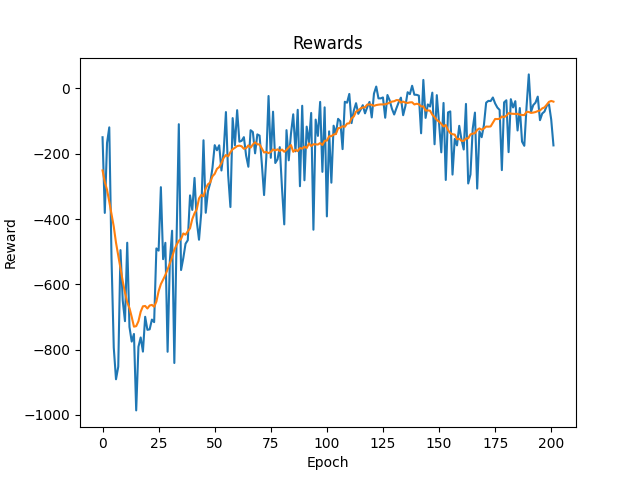
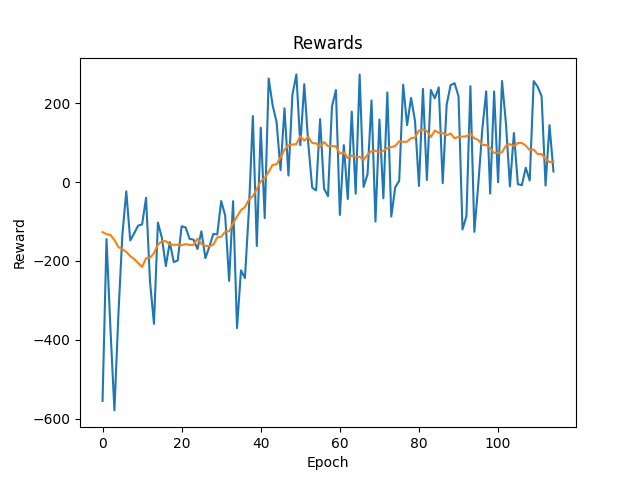
n step replay buffer

diff --git a/src/trainer/prioritized.rs b/src/trainer/prioritized.rs
@@ -1,4 +1,4 @@
-use std::{fs::File, io::Write as _, path::PathBuf};
+use std::{collections::VecDeque, fs::File, io::Write as _, path::PathBuf};
 
 use crate::{Env, Experience, PrioritizedReplayAgent, State};
 
@@ -108,12 +108,22 @@ pub struct PrioritizedReplayMemory<S: State + Serialize + DeserializeOwned + 'st
     batch_size: usize,
     counter: usize,
     alpha: f32,
+    gamma: f32,
 
     max_priority: f32,
+
+    n_step: usize,
+    n_step_buffer: VecDeque<Experience<S>>,
 }
 
 impl<S: State + Serialize + DeserializeOwned + 'static> PrioritizedReplayMemory<S> {
-    pub fn new(max_buffer_size: usize, batch_size: usize, alpha: f32) -> anyhow::Result<Self> {
+    pub fn new(
+        max_buffer_size: usize,
+        batch_size: usize,
+        n_step: usize,
+        alpha: f32,
+        gamma: f32,
+    ) -> anyhow::Result<Self> {
         let file = NamedTempFile::new().with_context(|| "create temp file")?;
         let db = Builder::new().create(file)?;
         let table_definition: TableDefinition<u32, Experience<S>> =
@@ -132,8 +142,11 @@ impl<S: State + Serialize + DeserializeOwned + 'static> PrioritizedReplayMemory<
             batch_size,
             counter: 0,
             alpha,
+            gamma,
 
             max_priority: 1.0,
+            n_step,
+            n_step_buffer: VecDeque::with_capacity(n_step + 1),
         })
     }
 
@@ -146,6 +159,31 @@ impl<S: State + Serialize + DeserializeOwned + 'static> PrioritizedReplayMemory<
     }
 
     fn push(&mut self, experience: Experience<S>) -> anyhow::Result<()> {
+        self.n_step_buffer.push_back(experience.clone());
+        if self.n_step_buffer.len() < self.n_step {
+            return Ok(());
+        }
+        if self.n_step_buffer.len() > self.n_step {
+            self.n_step_buffer.pop_front();
+        }
+        let mut total_reward = 0.0;
+        let mut finally_done = false;
+        for (i, exp) in self.n_step_buffer.iter().enumerate() {
+            let mask = if exp.is_done() { 0.0 } else { 1.0 };
+            total_reward += self.gamma * self.alpha.powi(i as i32) * mask * exp.reward;
+            if exp.is_done {
+                finally_done = true;
+                break;
+            }
+        }
+
+        let experience = Experience {
+            state: self.n_step_buffer.front().unwrap().state().clone(),
+            action: self.n_step_buffer.front().unwrap().action().clone(),
+            reward: total_reward,
+            is_done: finally_done,
+        };
+
         let write_txn = self.buffer.begin_write()?;
         {
             let mut table = write_txn.open_table(self.table_definition)?;

diff --git a/src/bin/gymnasium_trainer.rs b/src/bin/gymnasium_trainer.rs
@@ -40,6 +40,10 @@ struct Args {
     double_dqn: bool,
     #[arg(long)]
     noisy: bool,
+    #[arg(long)]
+    n_step: usize,
+    #[arg(long)]
+    qvalue_gamma: f32,
 }
 
 fn main() -> anyhow::Result<()> {
@@ -89,6 +93,7 @@ fn main() -> anyhow::Result<()> {
             env.action_space().clone(),
             device,
             1000,
+            args.n_step,
             args.double_dqn,
         );
 
@@ -97,16 +102,29 @@ fn main() -> anyhow::Result<()> {
         }
 
         if args.prioritized {
-            let mut memory = PrioritizedReplayMemory::new(2usize.pow(20), args.batch_size, 0.6)?;
+            let mut memory = PrioritizedReplayMemory::new(
+                2usize.pow(20),
+                args.batch_size,
+                args.n_step,
+                0.6,
+                args.qvalue_gamma,
+            )?;
 
-            let trainer = PrioritizedReplayTrainer::new(10000, 0.99, artifacts_path, true)?;
+            let trainer = PrioritizedReplayTrainer::new(10000, args.qvalue_gamma, artifacts_path, true)?;
 
             trainer.train_loop(&mut agent, &mut env, &mut memory)?;
         } else {
             let mut memory = UniformReplayMemory::new(2usize.pow(20), args.batch_size)?;
 
-            let trainer =
-                UniformReplayTrainer::new(10000, 0.99, 1.0, 0.01, 0.99, artifacts_path, true)?;
+            let trainer = UniformReplayTrainer::new(
+                10000,
+                0.99,
+                1.0,
+                0.01,
+                args.qvalue_gamma,
+                artifacts_path,
+                true,
+            )?;
 
             trainer.train_loop(&mut agent, &mut env, &mut memory)?;
         }

diff --git a/src/bin/super_mario_trainer.rs b/src/bin/super_mario_trainer.rs
@@ -40,6 +40,10 @@ struct Args {
     double_dqn: bool,
     #[arg(long)]
     noisy: bool,
+    #[arg(long)]
+    n_step: usize,
+    #[arg(long)]
+    qvalue_gamma: f32,
 }
 
 fn main() -> anyhow::Result<()> {
@@ -89,6 +93,7 @@ fn main() -> anyhow::Result<()> {
             env.action_space().clone(),
             device,
             1000,
+            args.n_step,
             args.double_dqn,
         );
 
@@ -97,16 +102,29 @@ fn main() -> anyhow::Result<()> {
         }
 
         if args.prioritized {
-            let mut memory = PrioritizedReplayMemory::new(2usize.pow(20), args.batch_size, 0.6)?;
+            let mut memory = PrioritizedReplayMemory::new(
+                2usize.pow(20),
+                args.batch_size,
+                args.n_step,
+                0.6,
+                args.qvalue_gamma,
+            )?;
 
-            let trainer = PrioritizedReplayTrainer::new(10000, 0.99, artifacts_path, true)?;
+            let trainer = PrioritizedReplayTrainer::new(10000, args.qvalue_gamma, artifacts_path, true)?;
 
             trainer.train_loop(&mut agent, &mut env, &mut memory)?;
         } else {
             let mut memory = UniformReplayMemory::new(2usize.pow(20), args.batch_size)?;
 
-            let trainer =
-                UniformReplayTrainer::new(10000, 0.99, 1.0, 0.01, 0.99, artifacts_path, true)?;
+            let trainer = UniformReplayTrainer::new(
+                10000,
+                0.99,
+                1.0,
+                0.01,
+                args.qvalue_gamma,
+                artifacts_path,
+                true,
+            )?;
 
             trainer.train_loop(&mut agent, &mut env, &mut memory)?;
         }

diff --git a/src/model.rs b/src/model.rs
@@ -159,8 +159,9 @@ impl<B: Backend> DeepQNetworkModel<B> {
         dueling: bool,
         noisy: bool,
     ) -> Self {
-       let value_layer_input_dim = if D==2 { 64} 
-       else if D == 4 {
+        let value_layer_input_dim = if D == 2 {
+            64
+        } else if D == 4 {
             let shape = observation_space.shape();
             let shape = [shape[1], shape[2], shape[3]];
             let stride = 3;
@@ -176,9 +177,9 @@ impl<B: Backend> DeepQNetworkModel<B> {
                 (shape[2] - kernel_size) / stride + 1,
             ];
             shape.iter().product()
-       }else {
-              unimplemented!()
-       };
+        } else {
+            unimplemented!()
+        };
         let layer1 = if D == 2 {
             FeatureExtractionLayer::Linear(
                 LinearConfig::new(observation_space.shape()[1], 64).init(device),
@@ -206,9 +207,19 @@ impl<B: Backend> DeepQNetworkModel<B> {
         };
 
         let value_layer = if dueling {
-            ValueLayer::Dueling(DuelingLayer::new(device, value_layer_input_dim, action_space, noisy))
+            ValueLayer::Dueling(DuelingLayer::new(
+                device,
+                value_layer_input_dim,
+                action_space,
+                noisy,
+            ))
         } else {
-            ValueLayer::Linear(LinearValueLayer::new(device, value_layer_input_dim, action_space, noisy))
+            ValueLayer::Linear(LinearValueLayer::new(
+                device,
+                value_layer_input_dim,
+                action_space,
+                noisy,
+            ))
         };
         Self {
             layer1,

diff --git a/src/agent.rs b/src/agent.rs
@@ -37,6 +37,8 @@ pub struct DeepQNetworkAgent<
     device: B::Device,
     update_counter: usize,
     teacher_update_freq: usize,
+
+    n_step: usize,
     double_dqn: bool,
 }
 
@@ -56,6 +58,8 @@ impl<
         action_space: ActionSpace,
         device: B::Device,
         teacher_update_freq: usize,
+
+        n_step: usize,
         double_dqn: bool,
     ) -> Self {
         let teacher_model = model.clone().fork(&device);
@@ -69,6 +73,7 @@ impl<
             device,
             update_counter: 0,
             teacher_update_freq,
+            n_step,
             double_dqn,
         }
     }
@@ -117,7 +122,7 @@ where
             * (item.action.ones_like().inner() - item.action.clone().inner())
             + ((next_target_q_value.clone().inner()
                 * (item.done.ones_like().inner() - item.done.clone().inner()))
-            .mul_scalar(gamma)
+            .mul_scalar(gamma.powi(self.n_step as i32))
                 + item.reward.clone().inner())
                 * item.action.clone().inner();
         let td: Vec<f32> = (q_value.inner() - targets)
@@ -147,10 +152,7 @@ where
             &self.device,
         );
         let scores = self.model.valid().predict(feature);
-        println!(
-            "score: {:?}",
-            scores.to_data().value
-        );
+        println!("score: {:?}", scores.to_data().value);
         match self.action_space {
             ActionSpace::Discrete(..) => {
                 let scores = scores.argmax(1);

diff --git a/README.md b/README.md
@@ -1,11 +1,11 @@
 # burn-rl-example
 
 ```bash
-cargo run --bin gymnasium_trainer -- --artifacts-path artifacts --env-name Acrobot-v1 --batch-size 64 --prioritized --dueling --double-dqn --noisy
-cargo run --bin gymnasium_trainer -- --artifacts-path artifacts --env-name CartPole-v1 --batch-size 64 --prioritized --dueling --double-dqn --noisy
-cargo run --bin gymnasium_trainer -- --artifacts-path artifacts --env-name MountainCar-v0 --batch-size 64 --prioritized --dueling --double-dqn --noisy
-cargo run --bin gymnasium_trainer -- --artifacts-path artifacts --env-name LunarLander-v2 --batch-size 64 --prioritized --dueling --double-dqn --noisy
-cargo run --bin super_mario_trainer -- --artifacts-path artifacts --env-name SuperMarioBros-v3 --batch-size 64 --prioritized --dueling --double-dqn --noisy
+cargo run --bin gymnasium_trainer -- --artifacts-path artifacts --env-name Acrobot-v1 --batch-size 64 --n-step 3 --qvalue-gamma 0.99 --prioritized --dueling --double-dqn --noisy
+cargo run --bin gymnasium_trainer -- --artifacts-path artifacts --env-name CartPole-v1 --batch-size 64 --n-step 3 --qvalue-gamma 0.99 --prioritized --dueling --double-dqn --noisy
+cargo run --bin gymnasium_trainer -- --artifacts-path artifacts --env-name MountainCar-v0 --batch-size 64 --n-step 3 --qvalue-gamma 0.99 --prioritized --dueling --double-dqn --noisy
+cargo run --bin gymnasium_trainer -- --artifacts-path artifacts --env-name LunarLander-v2 --batch-size 64 --n-step 3 --qvalue-gamma 0.99 --prioritized --dueling --double-dqn --noisy
+cargo run --bin super_mario_trainer -- --artifacts-path artifacts --env-name SuperMarioBros-v3 --batch-size 64 --n-step 3 --qvalue-gamma 0.99 --prioritized --dueling --double-dqn --noisy
 ```
 
 ## plot rewards
